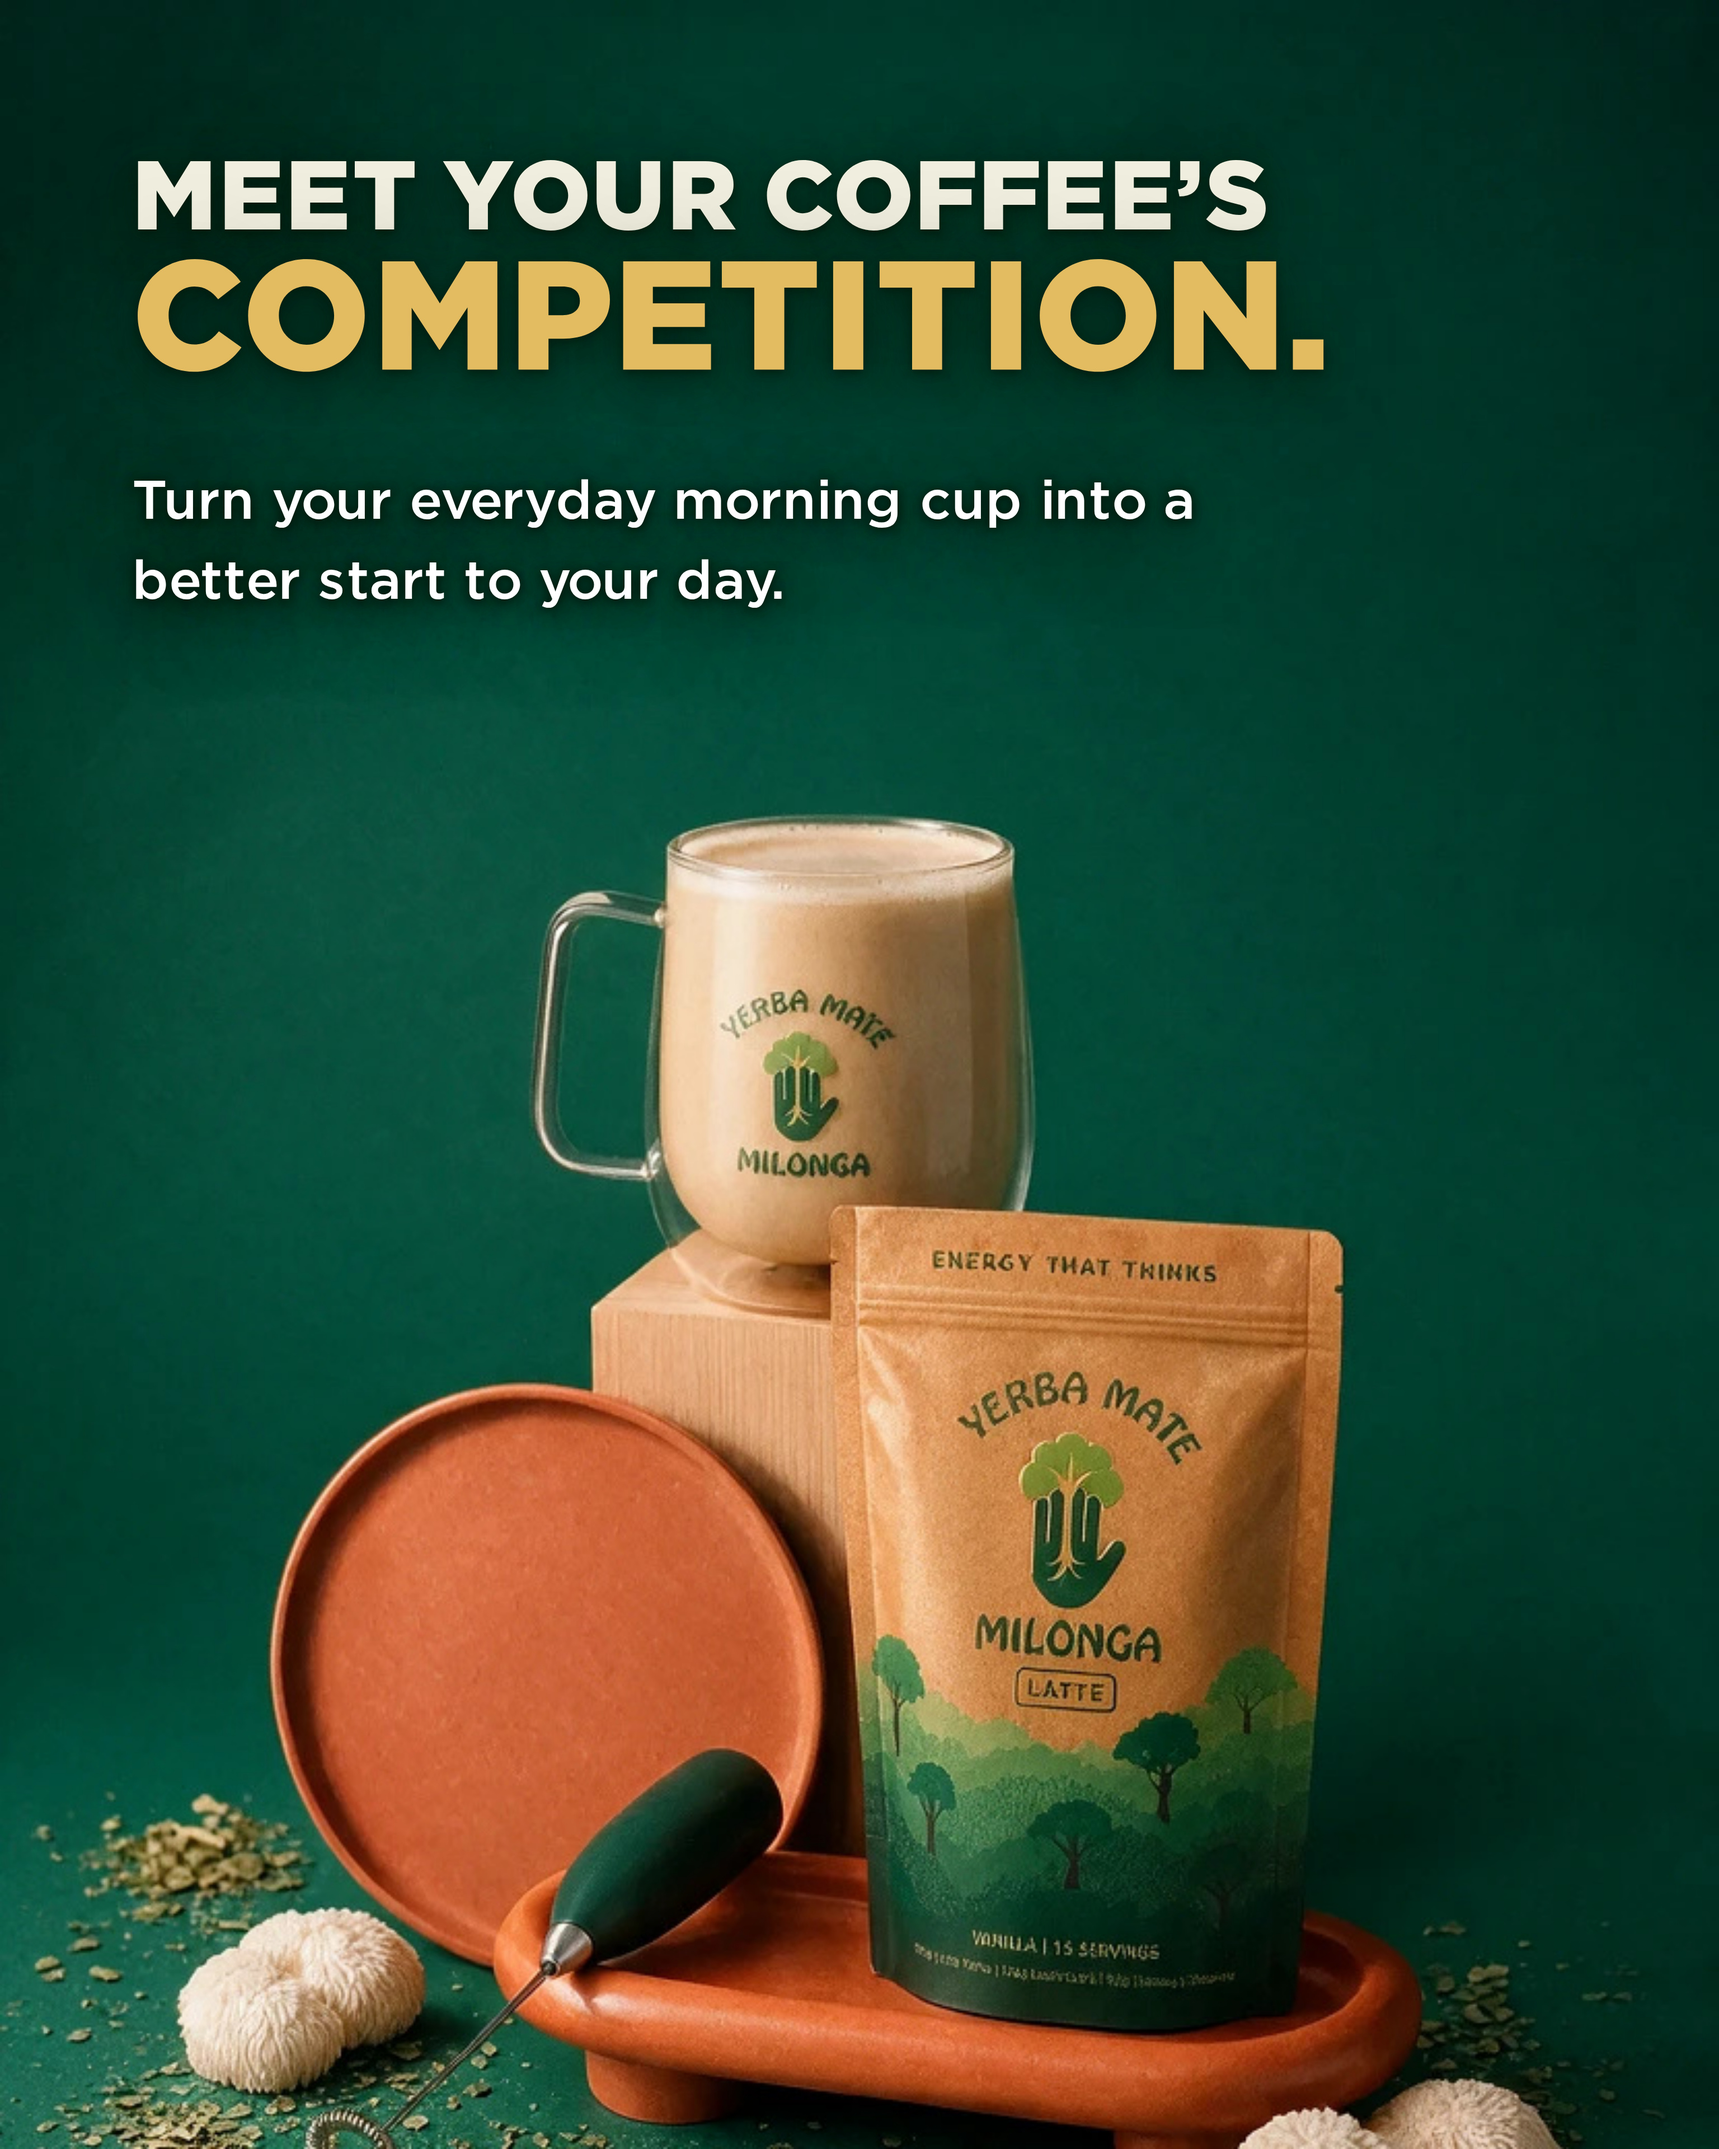
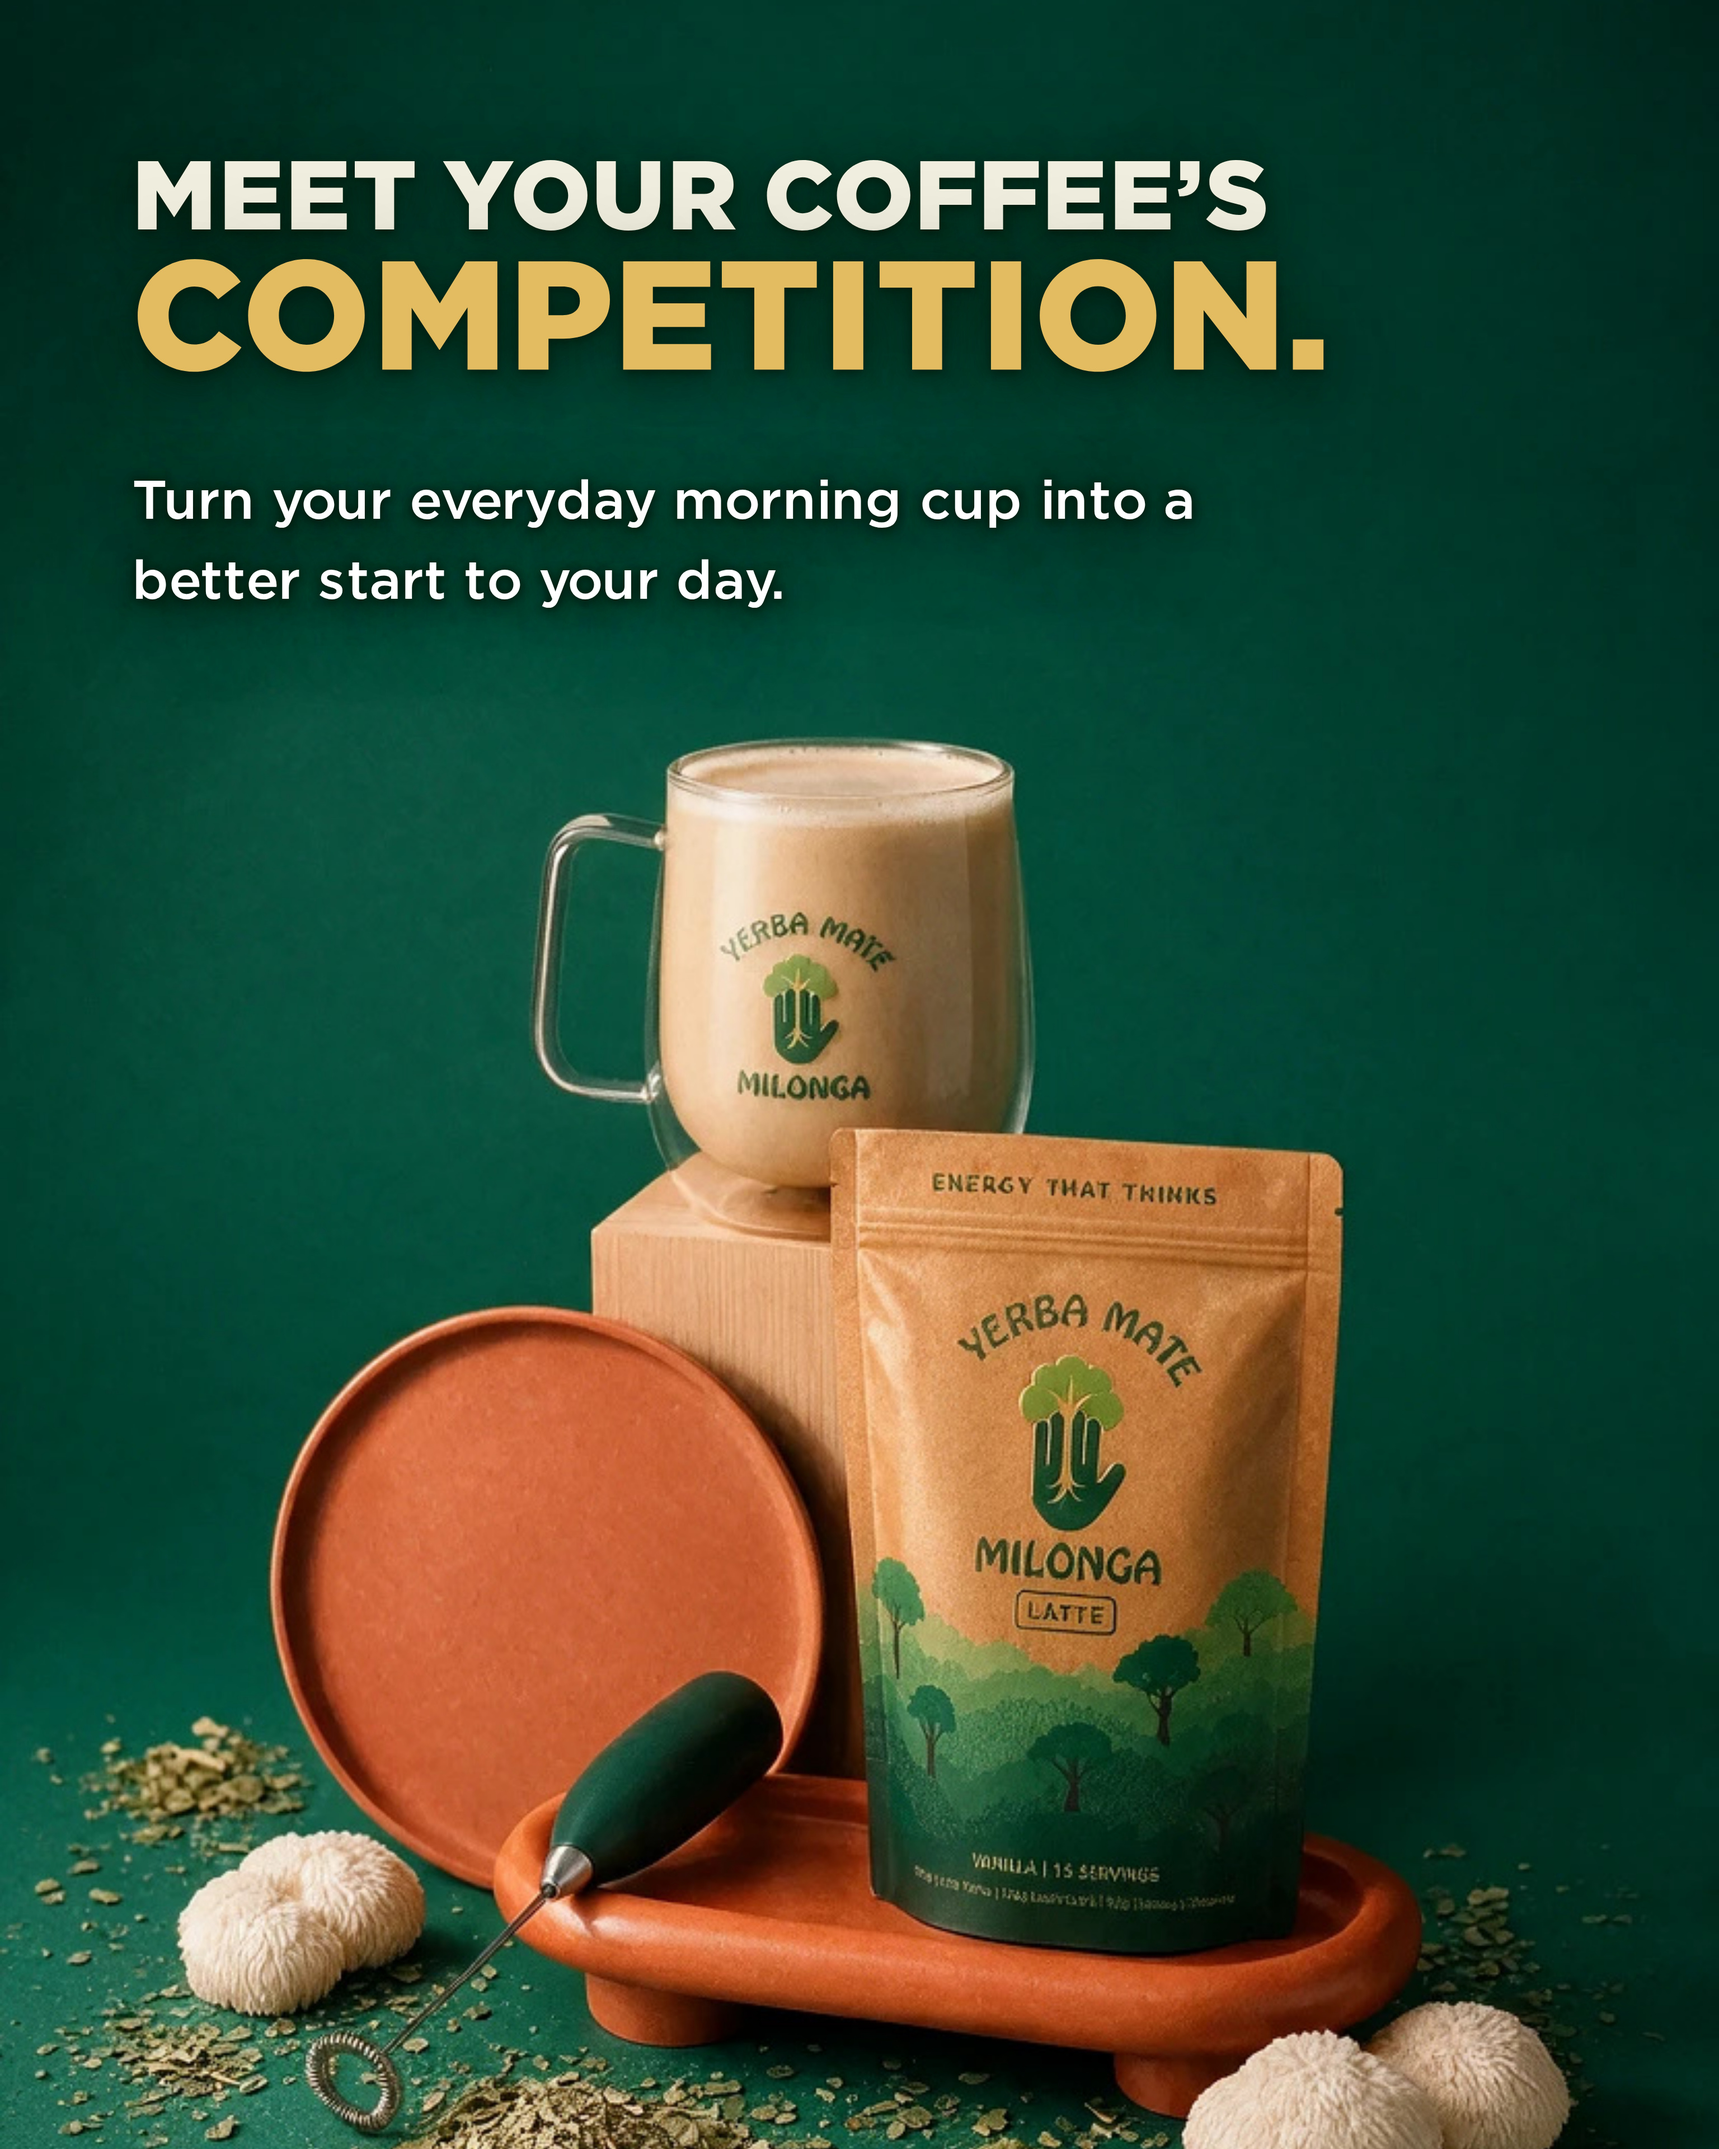
carousel: coffee-vs-mate slide 1, the still life lifts 27 units
The source is 832 x 1248 against a 600 x 750 frame, so 150 design units of
height overflow. At a top crop all 150 came off the foot and the composition
sat as low as it could; spending 18% of it at the head instead lifts the
arrangement 27 units and still leaves 258 of clear green above it against the
217 the type occupies.

Claude-Session: https://claude.ai/code/session_01NhEtXPnfeCJfN73SqBkUZ5

Changed region(s): [[0.0, 0.3438, 0.9375, 1.0]]

diff --git a/email-ds/emails/carousel/coffee-vs-mate.jsx b/email-ds/emails/carousel/coffee-vs-mate.jsx
@@ -55,9 +55,15 @@ function CarouselCoffeeVsMate() {
 
     // 1 · THE HOOK. The wider framing of the studio still life, which needs no
     // rebuilding: measured, the first row that is not flat backdrop is 31.7%
-    // down the file, so at a top crop the composition starts 285 design units
-    // in and the title and its paragraph have all the room they need.
-    S({ src: IMG.still, focus: 'center top', align: 'top', padX: 46, padY: 54 },
+    // down the file, so even after the crop the title and its paragraph have
+    // all the room they need.
+    //
+    // 18% rather than the top. The source is 832 x 1248 against a 600 x 750
+    // frame, so 150 design units of height overflow; at a top crop all 150
+    // comes off the foot and the composition sits as low as it can. 18 of
+    // them off the head lifts it 27 units, which still leaves 258 of clear
+    // green above it against the 217 the type occupies.
+    S({ src: IMG.still, focus: 'center 18%', align: 'top', padX: 46, padY: 54 },
       h(M.SlideTitle, { line1: 'Meet your coffee’s', line2: 'competition.',
         size: 34, size2: 54, lead: 0.98, color: CREAM, color2: GOLD, halo: 'hold' }),
       h(M.SlideBody, { text: 'Turn your everyday morning cup into a better start to your day.',
